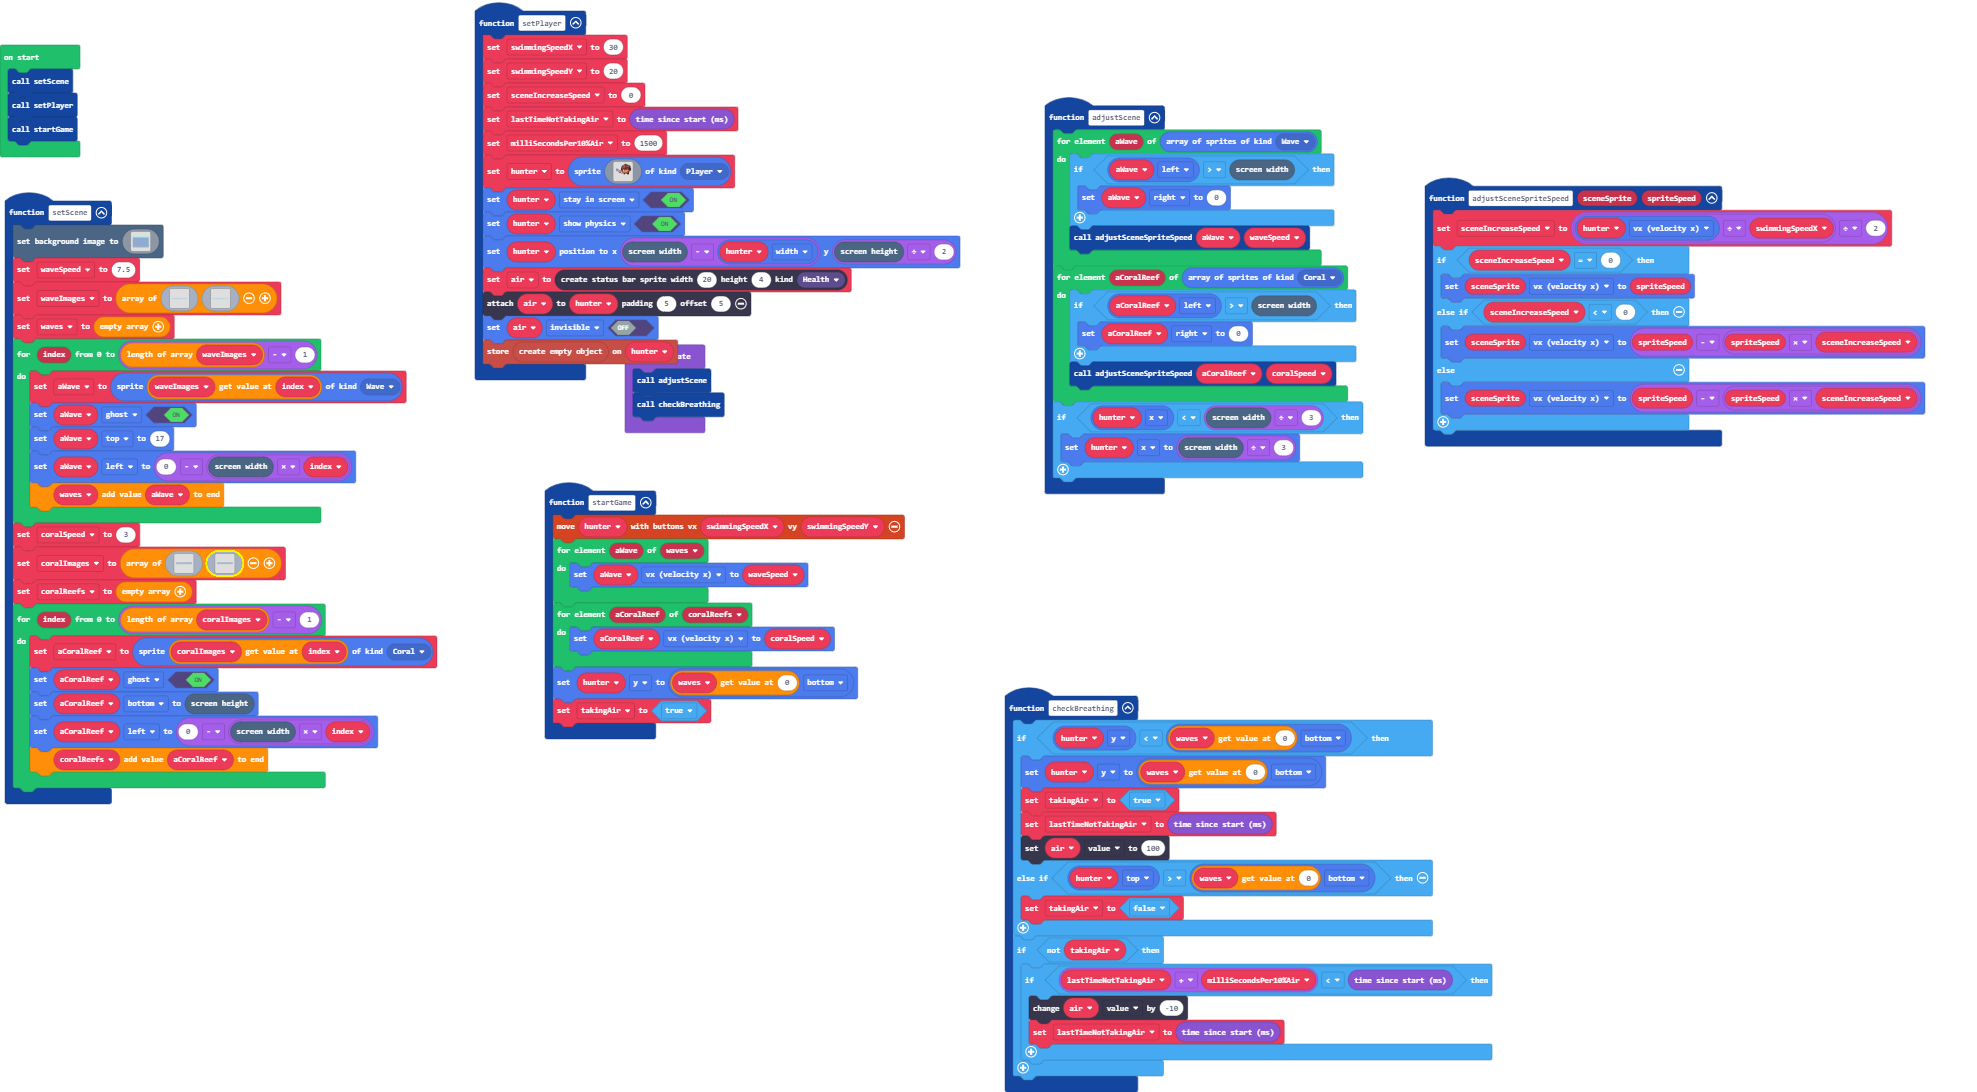
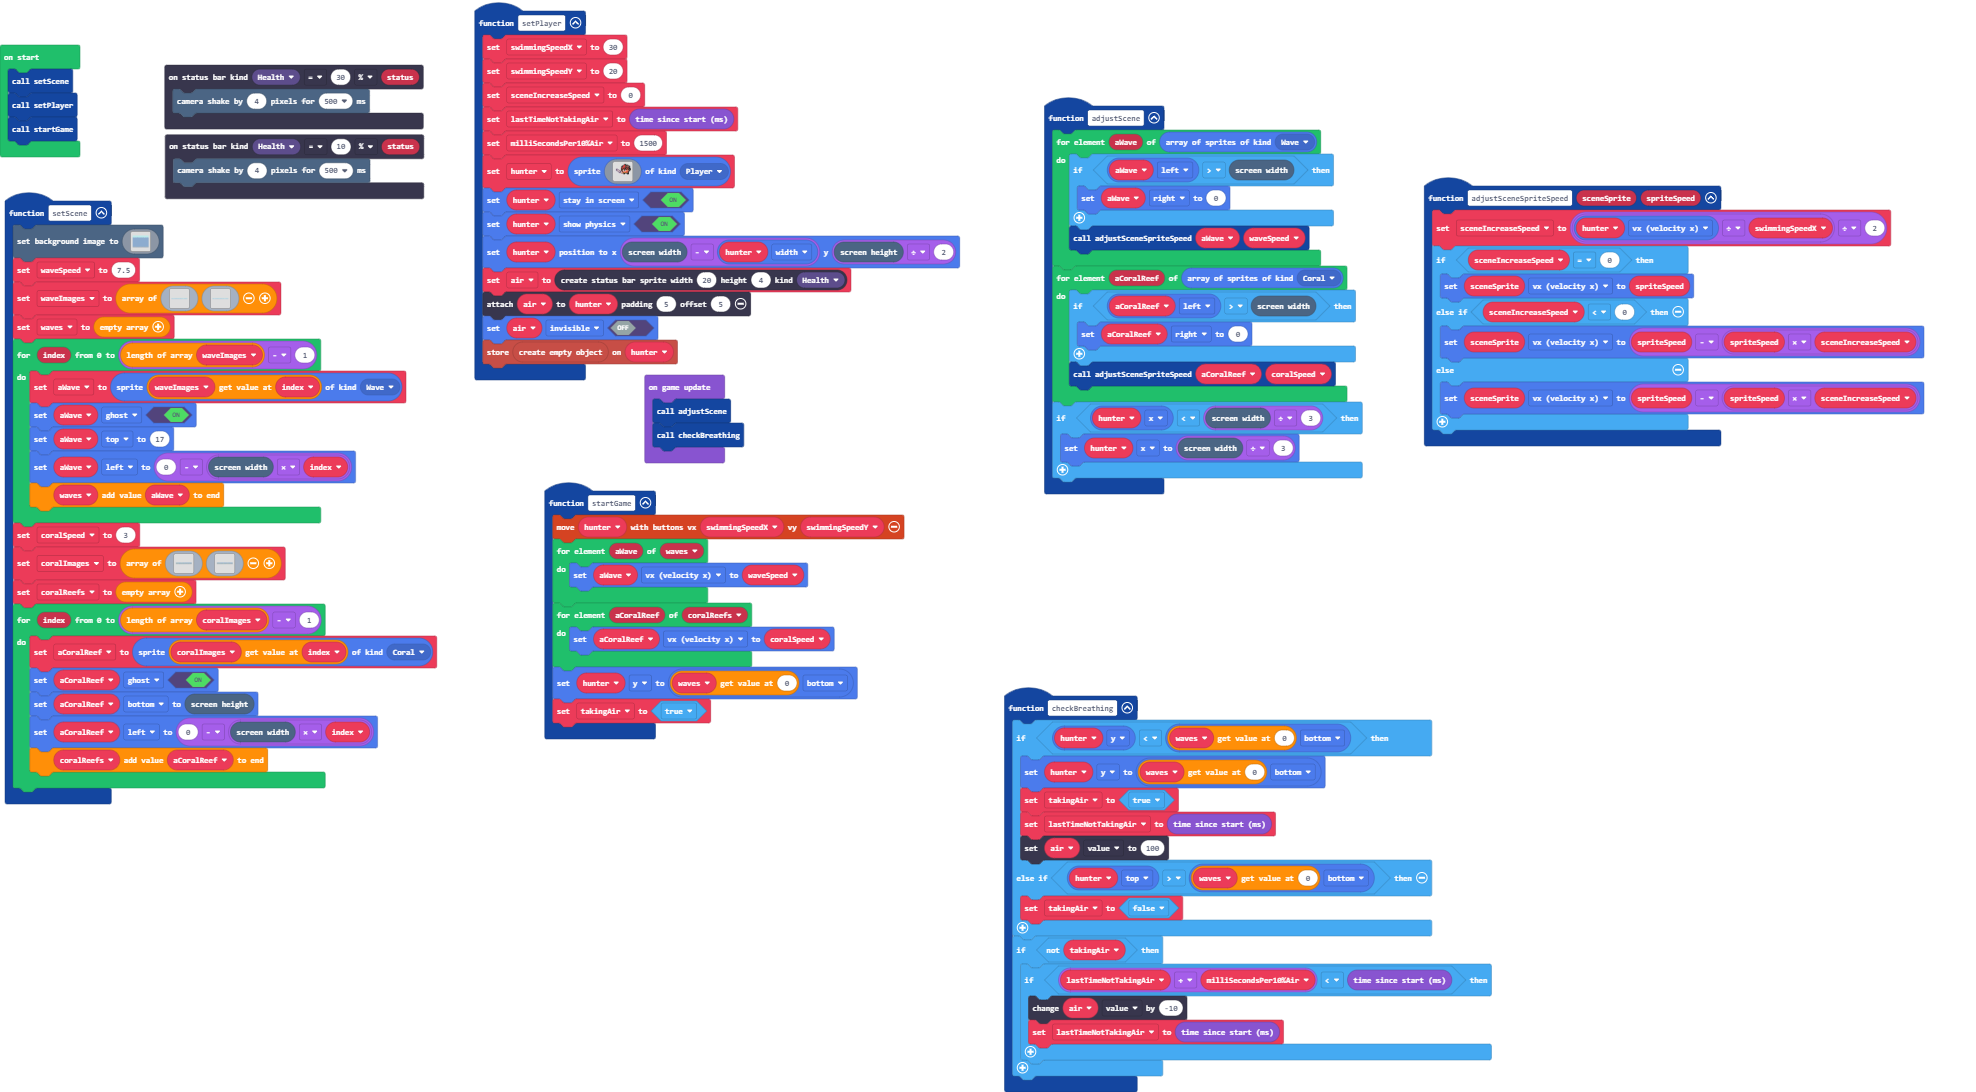
Camera shakes when low on air

diff --git a/main.ts b/main.ts
@@ -63,6 +63,12 @@ function startGame () {
     hunter.y = waves[0].bottom
     takingAir = true
 }
+statusbars.onStatusReached(StatusBarKind.Health, statusbars.StatusComparison.EQ, statusbars.ComparisonType.Percentage, 10, function (status) {
+    scene.cameraShake(4, 500)
+})
+statusbars.onStatusReached(StatusBarKind.Health, statusbars.StatusComparison.EQ, statusbars.ComparisonType.Percentage, 30, function (status) {
+    scene.cameraShake(4, 500)
+})
 function adjustScene () {
     for (let aWave of sprites.allOfKind(SpriteKind.Wave)) {
         if (aWave.left > scene.screenWidth()) {
